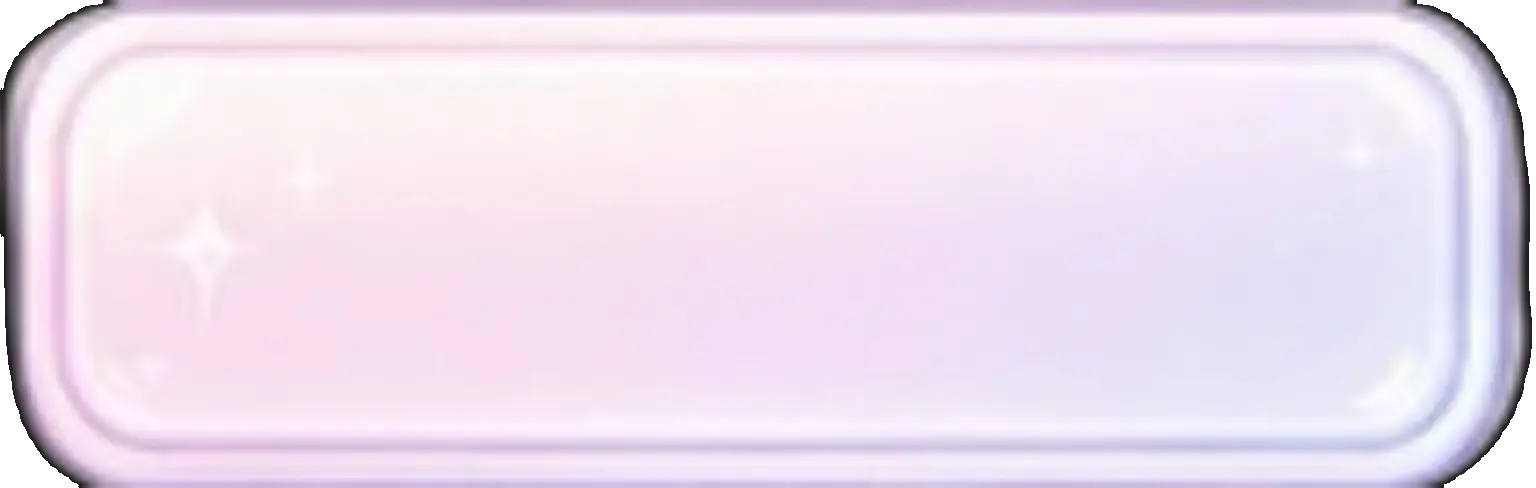
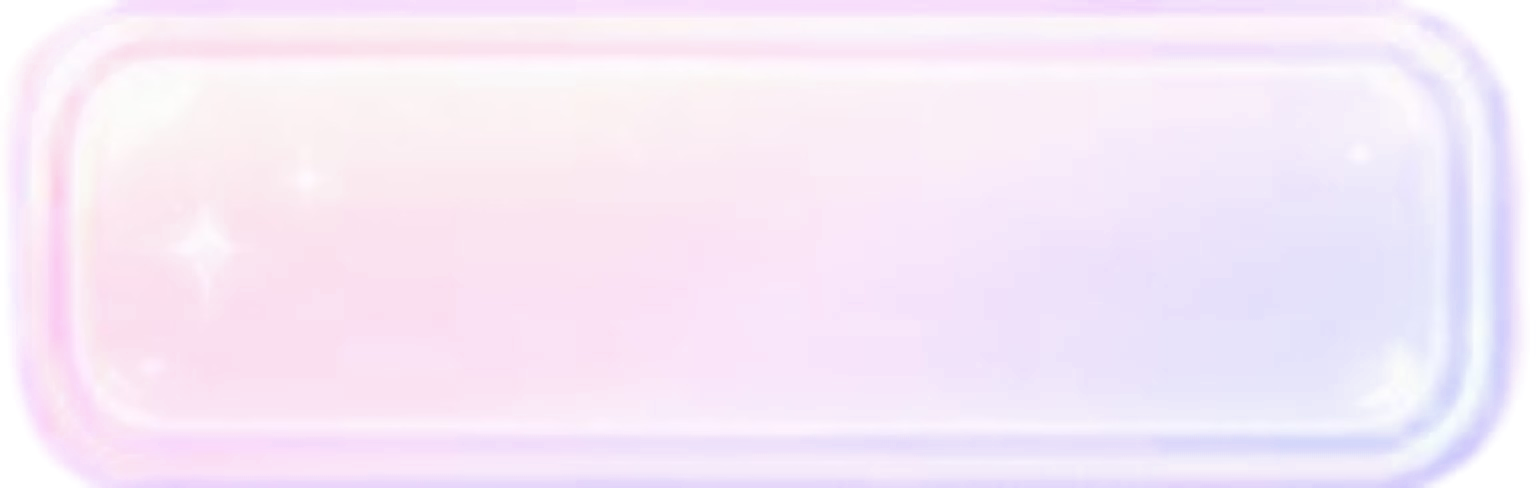
프로필 비율과 요소 화질을 바로잡는다

Changed region(s): [[0.0, 0.0, 1.0, 1.0], [0.625, 0.9836, 0.875, 1.0], [0.4375, 0.9836, 0.5938, 1.0]]

diff --git a/null.css b/null.css
@@ -1467,7 +1467,7 @@ input.hlabel.hin::placeholder{color:#c3b6e4;letter-spacing:.12em}
    그림에 슬롯이 이미 배킹돼 있어 창 크기를 그림 비율로 못박고 DOM 조각을
    각 슬롯 좌표에 절대 배치한다 — 내용 크기에 맞춰 늘리면 슬롯과 어긋난다.
    좌표는 재업로드본을 여백까지 잘라낸 뒤 10% 격자를 얹어 읽은 값이다. */
-.screen.splash{background:#efe6fb url("ui/bg-mobile.webp?v=148") center/cover no-repeat}
+.screen.splash{background:#efe6fb url("ui/bg-mobile.webp?v=149") center/cover no-repeat}
 
 /* CD — 그림이 왔으니 CSS로 그리던 원판을 버린다. 도는 것은 그림 자체 */
 .spcd{visibility:visible;align-self:flex-start;margin-left:-2px;margin-right:0;width:82px;height:82px;border-radius:0;
@@ -1552,8 +1552,8 @@ input.hlabel.hin::placeholder{color:#c3b6e4;letter-spacing:.12em}
 .spstack .w3 .spbar i{background:linear-gradient(180deg,#f8d3e9,#efb5de 55%,#e3a3d2)}
 
 /* 넓은 화면에서는 가로판 배경으로 바꾼다 — 세로판을 늘리면 가장자리 장식이 잘린다 */
-@media (min-aspect-ratio:1/1){
-  .screen.splash{background-image:url("ui/bg-desktop.webp?v=148")}
+@media (min-width:700px) and (min-aspect-ratio:1/1){
+  .screen.splash{background-image:url("ui/bg-desktop.webp?v=149")}
 }
 
 /* ── 창 자리 — 참고 화면에서 잰 사각형 그대로 ──
@@ -1597,8 +1597,8 @@ input.hlabel.hin::placeholder{color:#c3b6e4;letter-spacing:.12em}
    separate live controls. Width decides every height, so neither the frame nor
    a bar can be squeezed when the Android keyboard shortens dvh. */
 .enr.refprofile{position:fixed;z-index:999;isolation:isolate;left:50%;right:auto;top:0;bottom:auto;width:100vw;height:100dvh;transform:translateX(-50%);padding:0;overflow-x:hidden;overflow-y:auto;overscroll-behavior:contain;background:#f7f1fa url("assets/ui/profile-v2/background.webp") center/cover no-repeat}
-.enr.refprofile::before{content:"";position:absolute;z-index:0;left:50%;top:8vw;width:80vw;height:auto;aspect-ratio:778/1536;transform:translateX(-50%);pointer-events:none;background:transparent url("assets/ui/profile-v2/window-mobile.webp") center/contain no-repeat}
-.enr.refprofile .ecard{position:absolute;z-index:1;left:50%;top:23.56vw;width:66.48vw;height:auto;aspect-ratio:519/808;min-height:0;max-width:none;margin:0;padding:0;border:0;transform:translateX(-50%);container-type:inline-size;background:none;box-shadow:none;animation:none}
+.enr.refprofile::before{content:"";position:absolute;z-index:0;left:50%;top:20vw;width:83.2vw;height:auto;aspect-ratio:991/1536;transform:translateX(-50%);pointer-events:none;background:transparent url("assets/ui/profile-v2/window-desktop.webp") center/contain no-repeat}
+.enr.refprofile .ecard{position:absolute;z-index:1;left:50%;top:20vw;width:82.83vw;height:auto;aspect-ratio:519/808;min-height:0;max-width:none;margin:0;padding:0;border:0;transform:translateX(-50%);container-type:inline-size;background:none;box-shadow:none;animation:none}
 .enr.refprofile .etb{position:absolute;left:-10.17%;right:-10.17%;top:-13%;height:15%;z-index:5;padding:0;border:0;background:transparent;color:transparent;font-size:0;line-height:1;text-shadow:none}
 .enr.refprofile .etb .dots{position:absolute;right:1%;top:0;z-index:20;width:25%;height:100%;opacity:0;pointer-events:auto}
 .enr.refprofile .etb .dots span{height:100%;width:33%}
@@ -1630,12 +1630,12 @@ input.hlabel.hin::placeholder{color:#c3b6e4;letter-spacing:.12em}
 .enr.refprofile .ebar.fill-4{background-image:url("assets/ui/profile-v2/progress-4.webp")}
 .enr.refprofile .ebar i{display:none}
 .enr.refprofile .emsg{position:absolute;left:7.38%;top:73.6%;width:85.8%;margin:0;color:#776994;font-size:clamp(6px,1.55vw,8px);letter-spacing:.08em}
-.enr.refprofile .ego{left:28%;top:84.24%;width:44.6%;aspect-ratio:1536/373;padding:0;display:flex;align-items:center;justify-content:center;background:transparent url("assets/ui/profile-v2/click.webp") center/contain no-repeat;color:#625381;font-size:clamp(12px,3.3vw,17px);letter-spacing:.15em}
+.enr.refprofile .ego{left:28%;top:84.24%;width:44.6%;aspect-ratio:1536/527;padding:0;display:flex;align-items:center;justify-content:center;background:transparent url("assets/ui/profile-v2/click.webp?v=149") center/contain no-repeat;color:#625381;font-size:clamp(12px,3.3vw,17px);letter-spacing:.15em}
 .enr.refprofile .ego:active{transform:translateY(1px)}
-@media (min-aspect-ratio:1/1){
+@media (min-width:700px) and (min-aspect-ratio:1/1){
   .enr.refprofile{width:100vw;height:100dvh;background-image:url("assets/ui/profile-v2/background-desktop.webp")}
-  .enr.refprofile::before{left:50%;top:50%;width:min(90vw,50.35vh);aspect-ratio:991/1536;transform:translate(-50%,-50%);background-image:url("assets/ui/profile-v2/window-desktop.webp")}
-  .enr.refprofile .ecard{left:50%;top:50%;width:min(83.1vw,50.13vh);transform:translate(-50%,-50%)}
+  .enr.refprofile::before{left:50%;top:50%;width:min(90vw,41.94vh);aspect-ratio:991/1536;transform:translate(-50%,-50%);background-image:url("assets/ui/profile-v2/window-desktop.webp")}
+  .enr.refprofile .ecard{left:50%;top:50%;width:min(83.1vw,41.75vh);transform:translate(-50%,-50%)}
   .enr.refprofile .etb{left:4%;right:4%;top:1.6%;height:7%}
   .enr.refprofile .eprofiletitle{font-size:clamp(11px,4.63cqw,27px)}
   .enr.refprofile .enamelab,.enr.refprofile .lab{margin-bottom:clamp(4px,1.2cqw,7px);font-size:clamp(6px,2.32cqw,13px)}

diff --git a/index.html b/index.html
@@ -16,7 +16,7 @@
 <script src="https://unpkg.com/react-dom@18/umd/react-dom.production.min.js"></script>
 <script src="https://unpkg.com/@babel/standalone@7/babel.min.js"></script>
 <!-- 데모 대사·매칭. 문구집에서 만들어진 파일이라 직접 고치지 않는다 -->
-<script src="demo-lines.js?v=148"></script>
+<script src="demo-lines.js?v=149"></script>
 <script>
 /* 리스타트의 뒷정리.
    지우고 바로 다시 여는 방식은 안 됐다 — 다시 열리기 전 몇 밀리초 사이에
@@ -66,16 +66,16 @@ try{
      고치고 올릴 때 네 개를 같이 올린다. 하나만 올리면 그 하나만 새것이 된다.
      ★ 이 넷 중 하나라도 고쳤으면 번호를 올린다. 안 올리면 배포는 됐는데
        사람은 안 고쳐졌다고 한다 — 두 번 겪었다. -->
-<link rel="stylesheet" href="null.css?v=148">
+<link rel="stylesheet" href="null.css?v=149">
 </head>
 <body>
 <div id="root"></div>
 <!-- 데이터·규칙. JSX가 없어서 바벨을 안 탄다 -->
-<script src="app-data.js?v=148"></script>
+<script src="app-data.js?v=149"></script>
 <!-- 화면 조각 — 아이콘·창·방 목록. JSX라 바벨을 탄다 -->
-<script type="text/babel" src="app-ui.js?v=148"></script>
+<script type="text/babel" src="app-ui.js?v=149"></script>
 <!-- 앱 — 상태를 들고 있는 곳 -->
-<script type="text/babel" src="app.js?v=148"></script>
+<script type="text/babel" src="app.js?v=149"></script>
 <template id="__bundler_thumbnail"><svg xmlns="http://www.w3.org/2000/svg" viewBox="0 0 100 100"><rect width="100" height="100" fill="#b8a5e3"/><text x="50" y="58" text-anchor="middle" font-family="monospace" font-size="26" letter-spacing="4" fill="#fff">NULL</text></svg></template>
 </body>
 </html>

diff --git a/app-data.js b/app-data.js
@@ -377,7 +377,7 @@ const roomOf = id => ROOMS.find(r=>r.id===id);
    화면에는 옛 사물함이 그대로 떴다 — 브라우저가 같은 이름의 옛 파일을 계속
    쓴 것이다. index.html이 갈라진 파일에 붙이는 ?v= 와 같은 번호를 그림에도
    붙인다. 번호가 갈리면 시험이 잡는다. */
-const AV="?v=148";
+const AV="?v=149";
 const av=s=>s?s+AV:s;
 
 /* 사진: 백엔드가 보내는 key ↔ 실제 파일(key.webp). 목록에 없는 key는 무시한다. */

diff --git a/app/lib/rules.ts b/app/lib/rules.ts
@@ -386,7 +386,7 @@ const roomOf = id => ROOMS.find(r=>r.id===id);
    화면에는 옛 사물함이 그대로 떴다 — 브라우저가 같은 이름의 옛 파일을 계속
    쓴 것이다. index.html이 갈라진 파일에 붙이는 ?v= 와 같은 번호를 그림에도
    붙인다. 번호가 갈리면 시험이 잡는다. */
-const AV="?v=148";
+const AV="?v=149";
 const av=s=>s?s+AV:s;
 
 /* 사진: 백엔드가 보내는 key ↔ 실제 파일(key.webp). 목록에 없는 key는 무시한다. */
